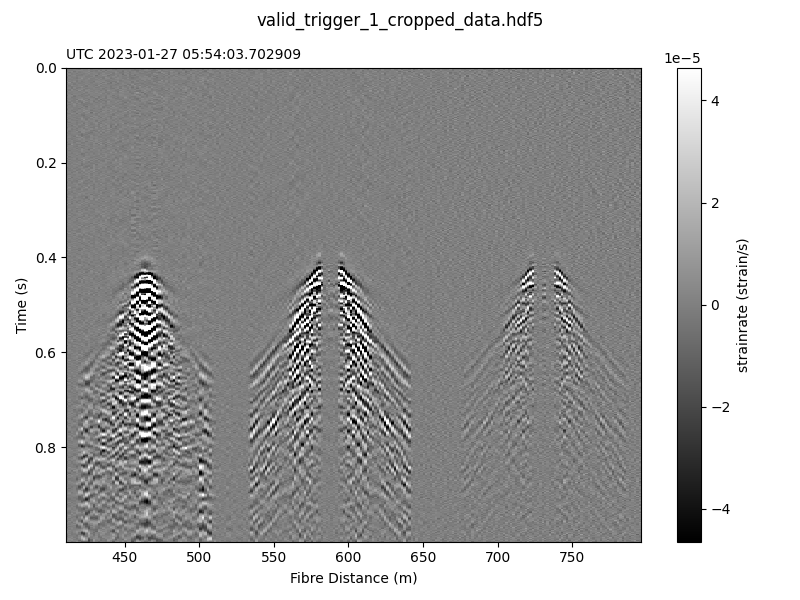
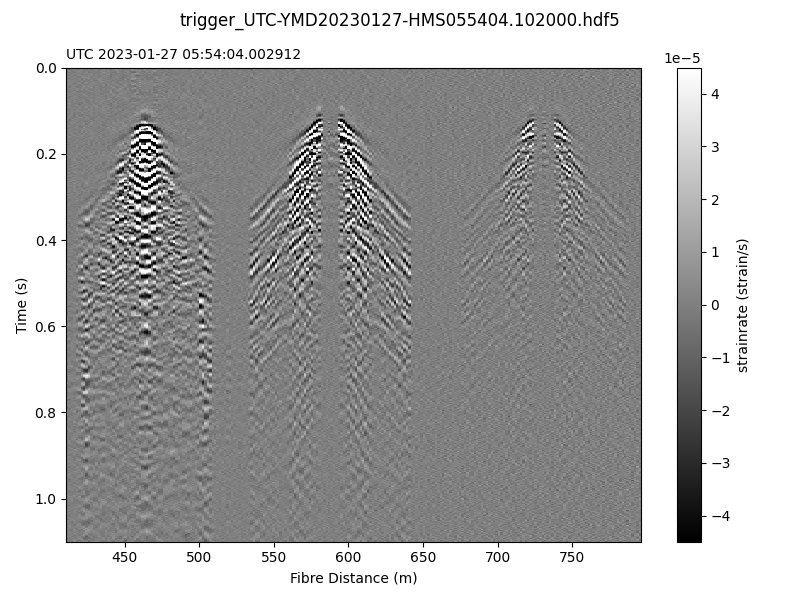
Added pre-trigger delay to split_data_by_triggers.py

diff --git a/HDF5_samples/split_data_by_triggers.py b/HDF5_samples/split_data_by_triggers.py
@@ -1,6 +1,7 @@
 """
-Script to crop out multiple triggered sections of data from a continuous Treble dataset based on a list of trigger times.
-Trigger times are defined as strings in a .csv file.
+Script to crop out multiple sections of data from a continuous Treble dataset based on a list of ASCII time values.
+Times are defined as ASCII strings in a .csv file.
+Data output includes PRE_TRIGGER_DURATION seconds of data before the trigger time.
 
 To process data across multiple contiguous .hdf5 files, first create a virtual v5_compatible.h5 file in the data directory containing the original
 .hdf5 data files. This .v5 file allows the indexing of multiple .hdf5 files as a single dataset, enabling simpler and faster
@@ -21,13 +22,12 @@ v5_compatible.h5 can be created by following these steps on a Treble, or a Linux
 # INPUT PARAMETERS
 #####################################################################################################################
 
-# Define the path to a previously created .h5 virtual hdf5 file or single .hdf5 file.
-hdf5_data_file = "../sample_data/v5_compatible.h5"
-# OR
-# hdf5_data_file = "../sample_data/example_triggered_shot.hdf5"
+# Define the path to a .h5 virtual hdf5 file or .hdf5 file.
+hdf5_data_file = "../sample_data/example_triggered_shot.hdf5"
 
 # Define trigger processing parameters
-CROP_DURATION = 1 # (s)
+POST_TRIGGER_DURATION = 1 # (s)
+PRE_TRIGGER_DURATION = 0.1 # (s)
 # The trigger reference file must contain a column named "Time", containing a list of trigger time strings.
 # Trigger time strings are assumed to be defined in UTC.
 trigger_reference_file = "split_data_triggers.csv"
@@ -78,24 +78,26 @@ def isoformat_timestamp(timestamp: float) -> str:
     return f"{datetime.utcfromtimestamp(timestamp).isoformat()}Z"
 
 
-def resave_triggered_data(src_hdf, dest_hdf, duration_seconds, trigger_timestamp=None):
+def resave_custom_triggers(src_hdf, dest_hdf, trigger_timestamp, post_trigger_seconds, pre_trigger_seconds=0.):
+    crop_duration = post_trigger_seconds + pre_trigger_seconds
+    t_start = trigger_timestamp - pre_trigger_seconds
+
     with h5py.File(src_hdf, "r") as src_file:
         src_attrs = dict(src_file.attrs)
 
-        if trigger_timestamp:
-            t1 = np.where(src_file["data_product/gps_time"][:] > trigger_timestamp)[0][0]
-        elif "trigger_start_line" in list(src_file.attrs.keys()):
-            t1 = src_attrs['trigger_start_line']
-            # if t1 == -1: t1=0
-        else:
-            raise AttributeError(
-                f"No trigger_start_line found in file attributes. Unable to resave {src_hdf}"
-            )
-        t2 = t1 + int(duration_seconds // src_attrs["dt_computer"]) + 1
+        # Converts timestamps to line numbers to crop
+        if t_start < src_file["data_product/gps_time"][0]:
+            raise ValueError(f"Trigger time {isoformat_timestamp(t_start)} is before start of file.")
 
+        t1 = np.where(src_file["data_product/gps_time"][:] > t_start)[0][0]
+        t2 = t1 + int(crop_duration // src_attrs["dt_computer"]) + 1
+
+        # Determines location of trigger line within file to update attributes
+        i_trigger = np.where(src_file["data_product/gps_time"][:] > trigger_timestamp)[0][0]
+        trigger_start_line = i_trigger - t1
 
         assert src_attrs["nt"] >= t2, (
-            f"File is not long enough to crop {duration_seconds}s worth of lines, "
+            f"File is not long enough to crop {crop_duration}s worth of lines, "
             f"time after trigger is: {(src_attrs['nt'] - src_attrs['trigger_start_line']) * src_attrs['dt_computer']:.2f}s"
         )
 
@@ -125,7 +127,8 @@ def resave_triggered_data(src_hdf, dest_hdf, duration_seconds, trigger_timestamp
             src_updated = copy.deepcopy(src_attrs)
             src_updated.update(
                 {
-                    "trigger_start_line": 0,
+                    "trigger_start_line": trigger_start_line,
+                    "trigger_start_time": trigger_timestamp,
                     "file_start_computer_time": new_start_time_computer,
                     "file_start_computer_time_string": isoformat_timestamp(new_start_time_computer),
                     "file_start_gps_time": new_start_time_gps,
@@ -171,6 +174,7 @@ def plot_data(data, t, x, title=None, units=None, axis=None, cmap="gray"):
 
 
 # Get file time boundaries
+print(f"Checking time boundaries: {hdf5_data_file}")
 with h5py.File(hdf5_data_file, "r") as f:
     t_min = f["data_product"]["gps_time"][0]
     t_max = f["data_product"]["gps_time"][-1]
@@ -189,18 +193,28 @@ for i, row in trigger_data.iterrows():
 
     if t_min < trig.timestamp() < t_max:
         try:
-            print(f"Processing trigger : {trig.strftime(input_time_string_format)}")
-            output_filename = trig_name + "_cropped_data.hdf5"
+            print(f"Processing custom trigger : {trig.strftime(input_time_string_format)}")
+            timestring = trig.strftime("UTC-YMD%Y%m%d-HMS%H%M%S.%f")
 
-            resave_triggered_data(hdf5_data_file, output_filename, CROP_DURATION, trigger_timestamp=trig.timestamp())
+            output_filename = timestring + "_trigger_data.hdf5"
+
+            resave_custom_triggers(
+                hdf5_data_file,
+                output_filename,
+                trig.timestamp(),
+                POST_TRIGGER_DURATION,
+                pre_trigger_seconds=PRE_TRIGGER_DURATION
+            )
 
             # Checks data validity by re-loading and plotting.
-            data, md, t, x = simple_load_data(output_filename, CROP_DURATION)
+            data, md, t, x = simple_load_data(output_filename, POST_TRIGGER_DURATION + PRE_TRIGGER_DURATION)
             data = convert_velocity_to_strainrate(data, md['pulse_length'], md['dx'])
             x = correct_gauge_length_offset(x, md["pulse_length"])
 
             plot_data(data, t, x, title=output_filename, units="strainrate (strain/s)")
-            plt.savefig(trig_name + "_cropped_data.png")
+            plt.savefig(timestring + "_trigger_data.png")
+
+            print(f"Successfully re-saved data for trigger: {trig.strftime(input_time_string_format)}")
 
         except Exception as e:
             print(f"Could not process data for trigger: {trig.strftime(input_time_string_format)}")
@@ -208,4 +222,4 @@ for i, row in trigger_data.iterrows():
 
 
     else:
-        print(f"Trigger time {trig.strftime(input_time_string_format)} is outside time limits of file.")
+        print(f"Trigger time {trig.strftime(input_time_string_format)} is outside time limits of the file.")
